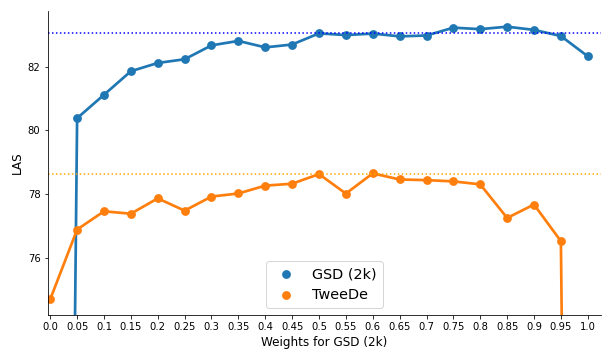
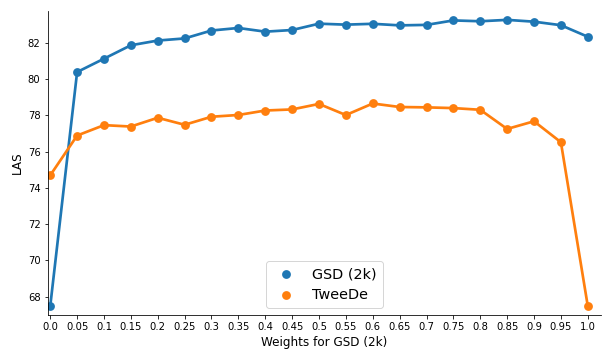
Add new results. Add plotting scripts

diff --git a/scripts/domain_gather.py b/scripts/domain_gather.py
@@ -147,17 +147,17 @@ def gather(lang, tasks, treebanks, embed_extension, exp_types, losses, mlps, see
     print_results(baseline_results, multitask_results, debug=debug)
 
 
-# tasks = ['gsd', 'tw']
-# treebanks = ['gsd', 'tweeDe']
-# lang = 'german'
+tasks = ['gsd', 'tw']
+treebanks = ['gsd', 'tweeDe']
+lang = 'german'
 
 # tasks = ['isdt', 'po']
 # treebanks = ['isdt', 'postwita']
 # lang = 'italian'
 
-tasks = ['isdt', 'tw']
-treebanks = ['isdt', 'twittiro']
-lang = 'italian'
+# tasks = ['isdt', 'tw']
+# treebanks = ['isdt', 'twittiro']
+# lang = 'italian'
 
 # tasks = ['po', 'tw']
 # treebanks = ['postwita', 'twittiro']
@@ -170,10 +170,11 @@ regular_results = []
 partial_results = []
 whole_results = []
 mtl_setting = 'sharemlp'
-exp_sizes = ['full']
-# exp_sizes = ['4k']
+# exp_sizes = ['full']
+exp_sizes = ['1k', '2k', '4k', 'full']
 ratios = [f"{0.05+i*0.05:.2f}-{1-(0.05+i*0.05):.2f}" for i in range(19)]
-ratios = ['0.20-0.80']
+# ratios = ['0.85-0.15']
+ratios = [f"{0.1+i*0.1:.1f}-{2-(0.1+i*0.1):.1f}" for i in range(19)]
 for exp_size in exp_sizes:
     results = defaultdict(lambda: defaultdict(list))
     for task, treebank in zip(tasks, treebanks):
@@ -182,8 +183,10 @@ for exp_size in exp_sizes:
         else:
             split = og_split
         for ratio in ratios:
-            exp_dir = exp_root / 'domain' / lang / f"{'-'.join(tasks)}" / 'tag' / exp_size / f'sharemlp-{ratio}'
-            # exp_dir = exp_root / 'domain' / lang / f"{'-'.join(tasks)}" / feature / exp_size / mtl_setting / ratio
+            # exp_dir = exp_root / 'domain' / lang / 'gsd-tw' / 'tag' / exp_size / f'sharemlp-{ratio}' # Only for old german
+            exp_dir = exp_root / 'domain' / 'gsd-tweeDe' / 'tag' / exp_size / f'sharemlp-{ratio}' # Weird German 1-1
+            # exp_dir = exp_root / 'domain' / lang / f"{'-'.join(tasks)}" / 'tag' / exp_size / f'sharemlp-{ratio}' # Regular
+            # exp_dir = exp_root / 'domain' / lang / f"{'-'.join(tasks)}" / feature / exp_size / mtl_setting / ratio # New
             if treebank == 'tweeDe':
                 regular_conll_name = f"{task}-{treebank}_{split}.conllu"
             else:
@@ -191,7 +194,7 @@ for exp_size in exp_sizes:
 
             regular_res, partial_res, whole_res = [], [], []
 
-            for seed in ['10', '30', '40']:
+            for seed in ['10', '20', '30']:
                 curr_exp_dir = exp_dir / seed
                 regular_conll_file = curr_exp_dir / regular_conll_name
                 partial_conll_file = curr_exp_dir / f"partial-{task}-{regular_conll_name}"
@@ -219,7 +222,7 @@ for exp_size in exp_sizes:
             data[f'{task}-{finetune}'] = np.array(results[finetune][task]).mean(axis=1)
 
     # data.to_csv(f"results/domain/{lang_codes[lang]}_{exp_size}_{'-'.join(tasks)}_{split}.csv")
-    # data.to_csv(f"results/domain/{lang_codes[lang]}_{exp_size}_{'-'.join(tasks)}_{mtl_setting}_{split}.csv")
+    data.to_csv(f"results/domain_weights/0_2/{lang_codes[lang]}_{exp_size}_{'-'.join(tasks)}_{mtl_setting}_{split}.csv")
 
 
 

diff --git a/scripts/weight_plot.py b/scripts/weight_plot.py
@@ -6,16 +6,21 @@ import matplotlib.pyplot as plt
 
 
 # exp_files1 = ['de_1k_dev', 'de_2k_dev', 'de_4k_dev', 'de_full_dev']
+exp_files = ['de_1k_gsd-tw_sharemlp_dev', 'de_2k_gsd-tw_sharemlp_dev', 'de_4k_gsd-tw_sharemlp_dev', 'de_full_gsd-tw_sharemlp_dev']
 # exp_files2 = ['it_1k_po-tw_dev']
 # exp_files3 = ['it_1k_isdt-tw_dev', 'it_2k_isdt-tw_dev', 'it_4k_isdt-tw_dev', 'it_full_isdt-tw_dev']
 # exp_files4 = ['it_1k_isdt-po_dev150', 'it_2k_isdt-po_dev150', 'it_4k_isdt-po_dev150', 'it_full_isdt-po_dev150']
 # exp_files5 = ['de_1k_gsd-tw_nosharemlp_dev', 'de_full_gsd-tw_nosharemlp_dev']
 # exp_files = exp_files1 + exp_files2 + exp_files3 + exp_files4 + exp_files5
 # exp_files = ['de_full_none']
-exp_files = ['it_4k_isdt-tw_dev']
+# exp_files = ['it_4k_isdt-tw_dev']
+
+
+weight_dir = '0_2'
 
 for exp_file in exp_files:
-    data = pd.read_csv(f'results/domain/{exp_file}.csv', index_col=0)
+    data = pd.read_csv(f'results/domain_weights/{weight_dir}/{exp_file}.csv', index_col=0)
+    # data = data.iloc[1:-1]
     column_names = [f"{c.split('-')[0]}" for c in data.columns]
     column_names[0] = f"{column_names[0]} ({exp_file.split('_')[1]})"
     data.columns = column_names
@@ -27,10 +32,10 @@ for exp_file in exp_files:
     min_val = b[0]
     max_val = b[-1]
     g.set(ylim=(min_val - 0.5, max_val + 0.5))
-    g.set(xlim=(-0.1, 20.5))
+    g.set(xlim=(-0.1, 18.5))
 
-    t1, t2 = list(data.loc[0.50].values)
-    plt.axvline(10, 0, max_val, color='crimson', ls=':')
+    t1, t2 = list(data.loc[1.0].values)
+    plt.axvline(9, 0, max_val, color='crimson', ls=':')
     plt.axhline(t1, 0, 20, color='blue', ls=':')
     plt.axhline(t2, 0, 20, color='orange', ls=':')
 
@@ -38,4 +43,4 @@ for exp_file in exp_files:
     plt.xlabel(f"Weights for {data.columns[0]}", fontsize=12)
     plt.ylabel(f"LAS", fontsize=12)
     plt.tight_layout()
-    plt.savefig(f'results/domain/{exp_file}.png')
+    plt.savefig(f'results/domain_weights/{weight_dir}/{exp_file}.png')
